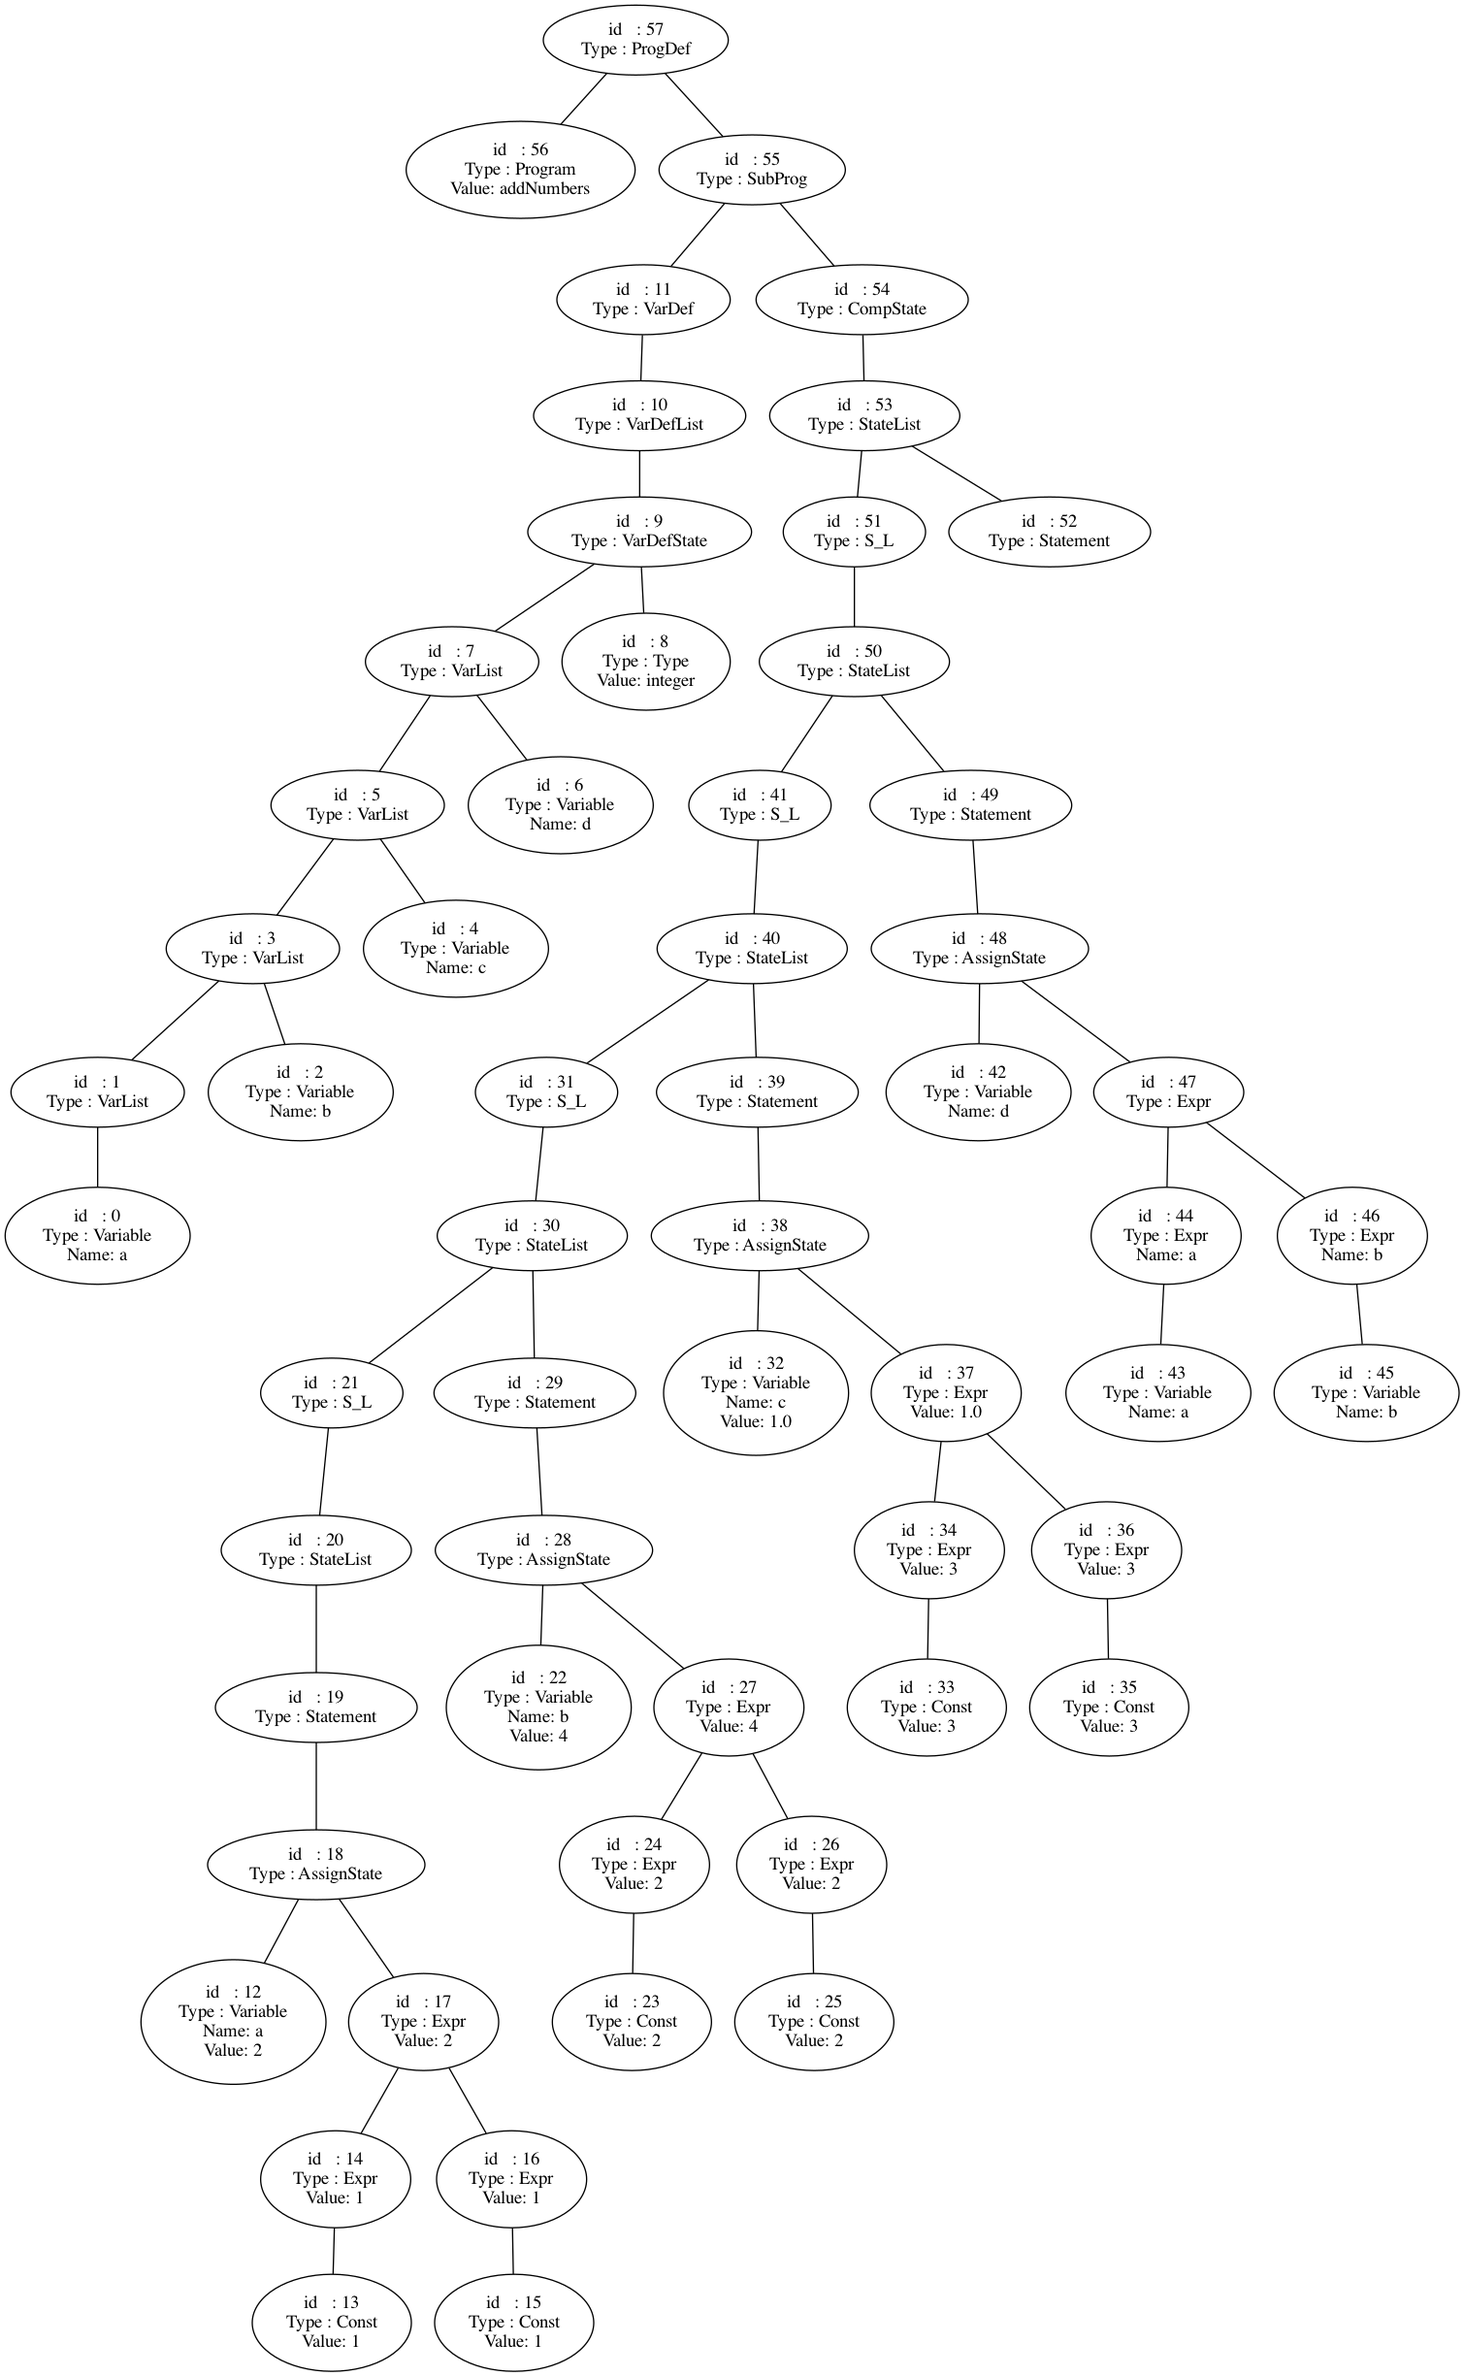
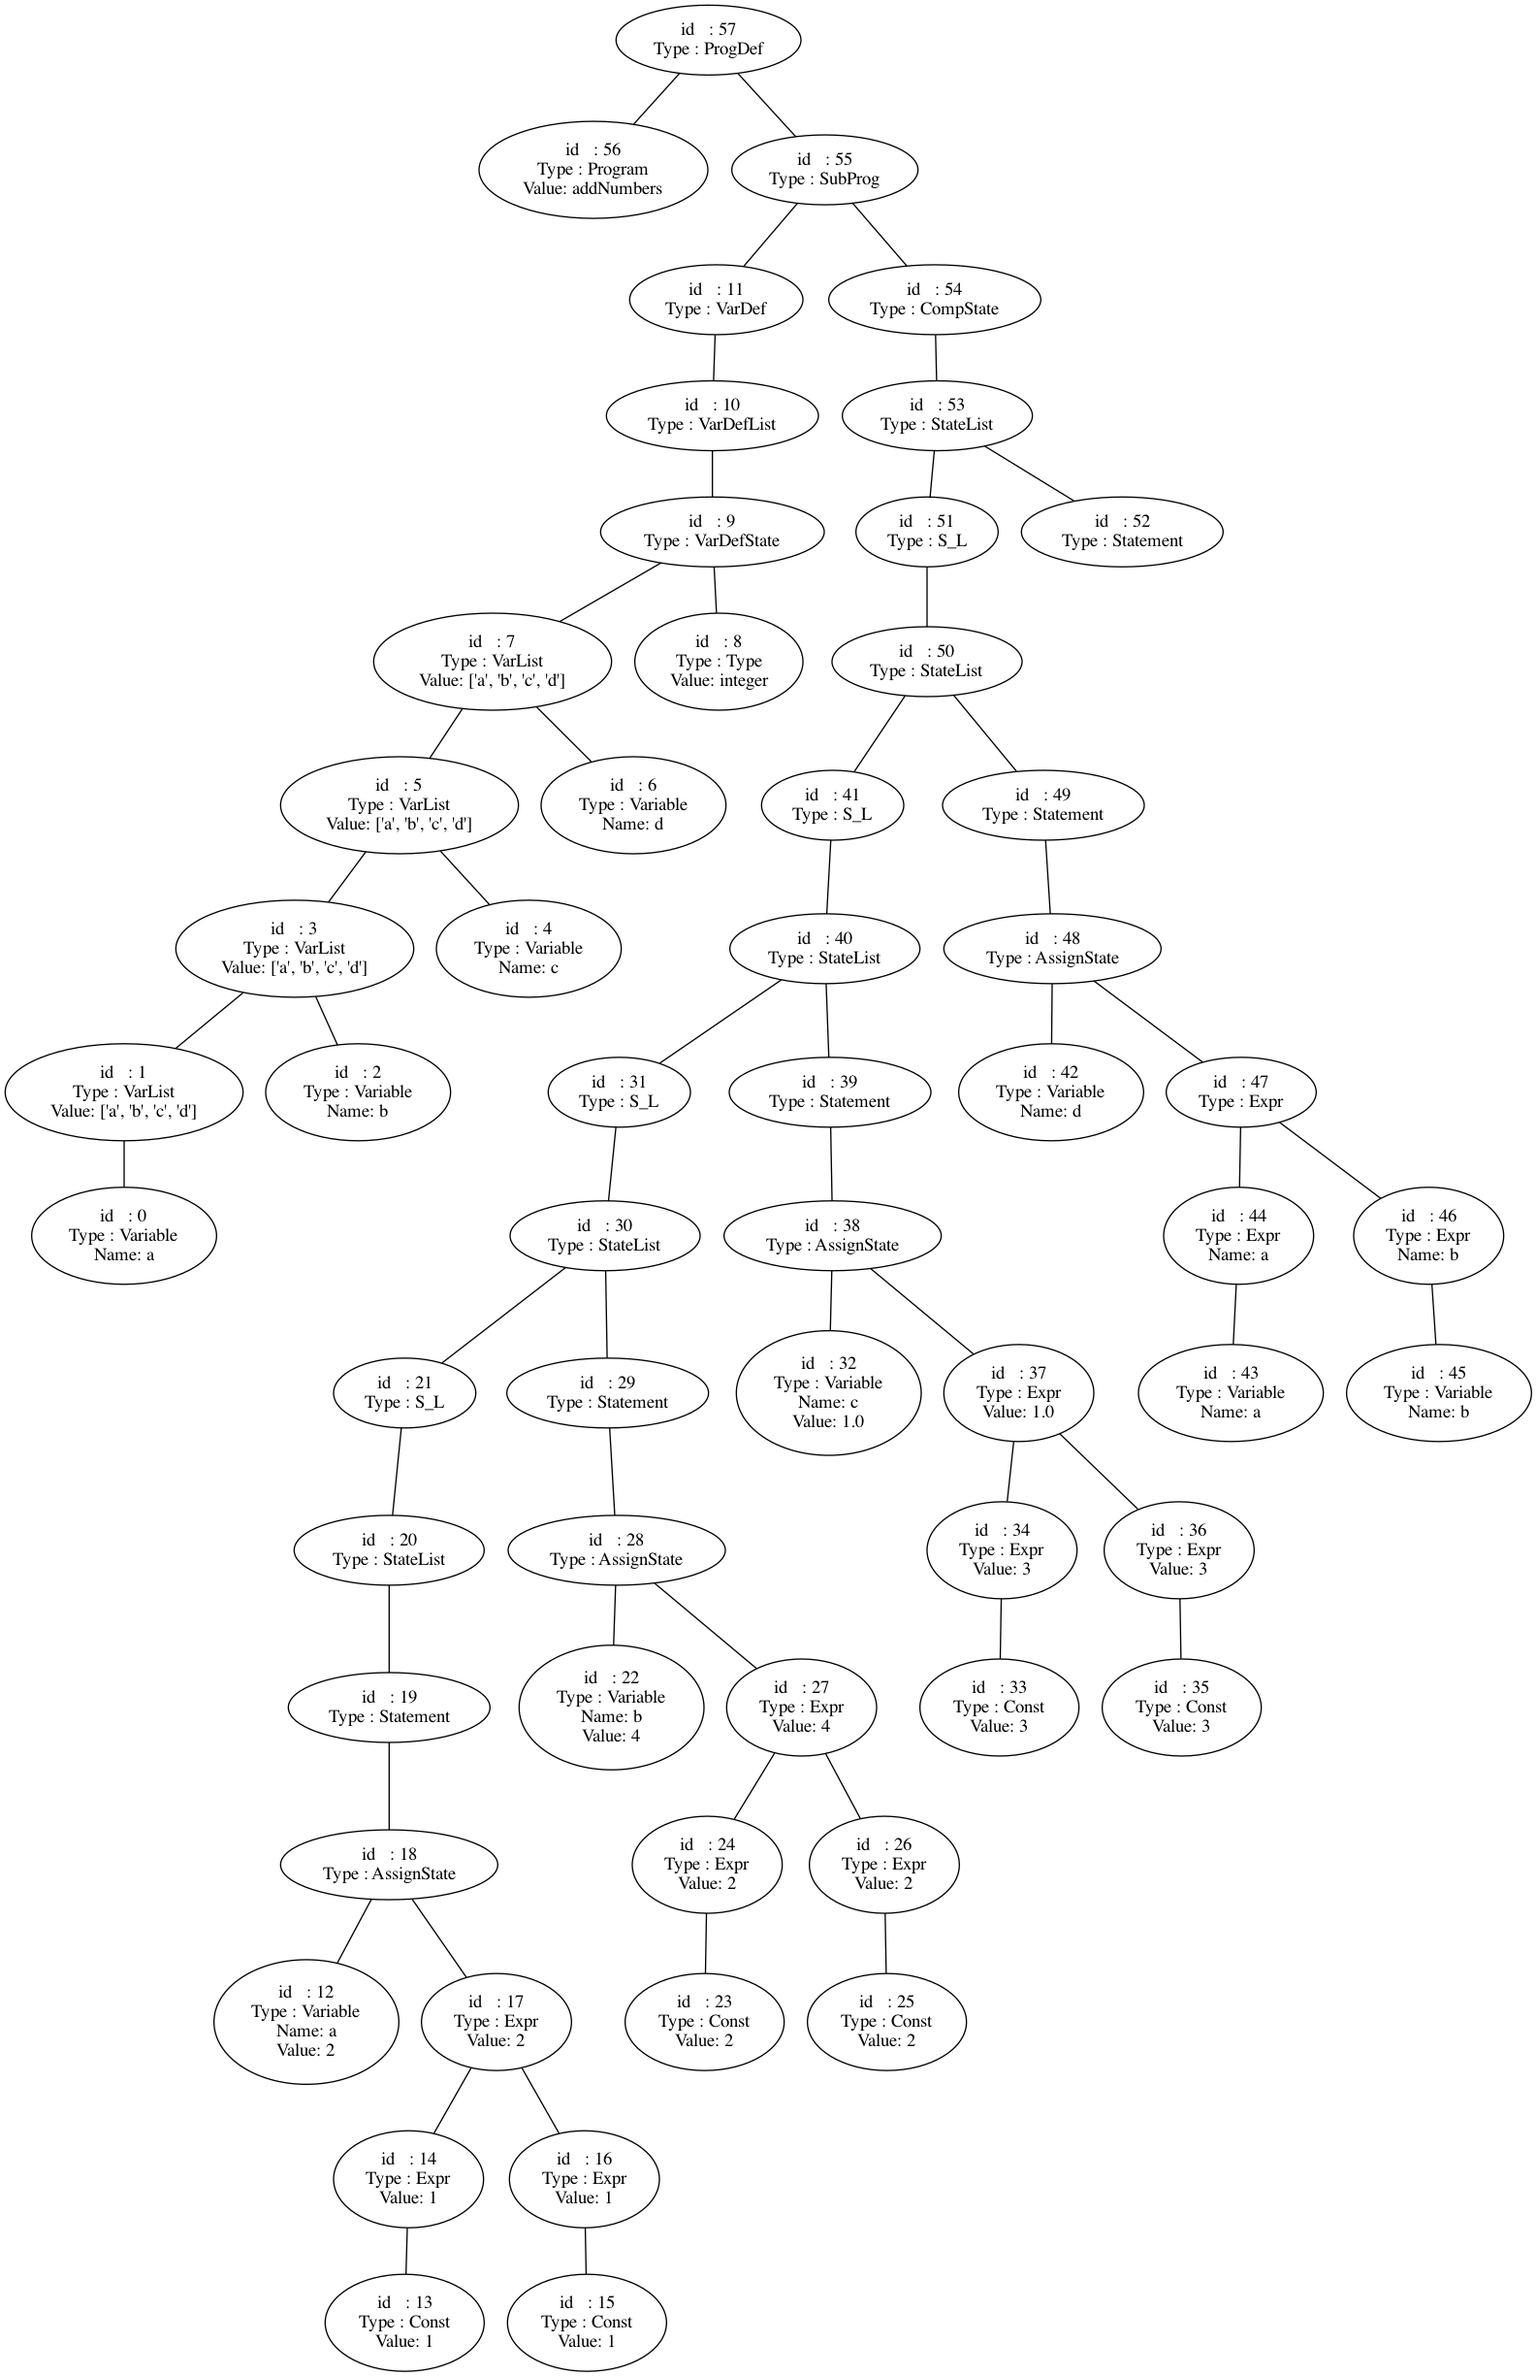
feat(var_list): Added Token Table storage
- XXX(Steve X): 输出 AST 时, VarList 每一步元素都不变

* BREAKING CHANGE

diff --git a/src/syntax.py b/src/syntax.py
@@ -89,7 +89,6 @@ def p_SubProg(p):
     p[0] = ast.Node(node_type='SubProg', children=[p[1], p[2]])
 
 
-# FIXME(Steve X): store var into variable_list(符号表)
 def p_VarDef(p):
     '''VarDef : Var VarDefList ';' '''
 
@@ -112,6 +111,12 @@ def p_VarDefState(p):
     '''VarDefState : VarList ':' Type'''
 
     p[0] = ast.Node(node_type='VarDefState', children=[p[1], p[3]])
+    for var in p[1].value:
+        variable_list.add({
+            'name': var.name,
+            'value': var.value,
+            'var_type': p[3].value,
+        })
 
 
 def p_Type(p):
@@ -122,15 +127,17 @@ def p_Type(p):
     p[0] = ast.Node(node_type='Type', value=p[1])
 
 
+# XXX(Steve X): 输出 AST 时, VarList 每一步元素都不变
 def p_VarList(p):
     '''VarList  : VarList ',' Variable
                 | Variable
     '''
 
     if len(p) == 2:
-        p[0] = ast.Node(node_type='VarList', children=[p[1]])
+        p[0] = ast.Node(node_type='VarList', value=[p[1]], children=[p[1]])
     elif len(p) == 4:
-        p[0] = ast.Node(node_type='VarList', children=[p[1], p[3]])
+        p[1].value.append(p[3])
+        p[0] = ast.Node(node_type='VarList', value=p[1].value, children=[p[1], p[3]])
 
 
 def p_StateList(p):

diff --git a/src/codegen/ast.py b/src/codegen/ast.py
@@ -42,7 +42,12 @@ class Node(NodeCnt):
         res = f'id   : {self.idx}\n'
         res += f'Type : {self.node_type}\n'
         res += f'Name: {self.name}\n' if self.name else ''
-        res += f'Value: {self.value}\n' if self.value else ''
+
+        if isinstance(self.value, list):
+            value = [i.name for i in self.value]
+        else:
+            value = str(self.value)
+        res += f'Value: {value}\n' if self.value else ''
 
         return str(res)
 

diff --git a/src/minipascal.py b/src/minipascal.py
@@ -33,3 +33,6 @@ if __name__ == "__main__":
 
         quad = syntax.quadruple_list
         print(quad)
+
+        var = syntax.variable_list
+        print(var)
